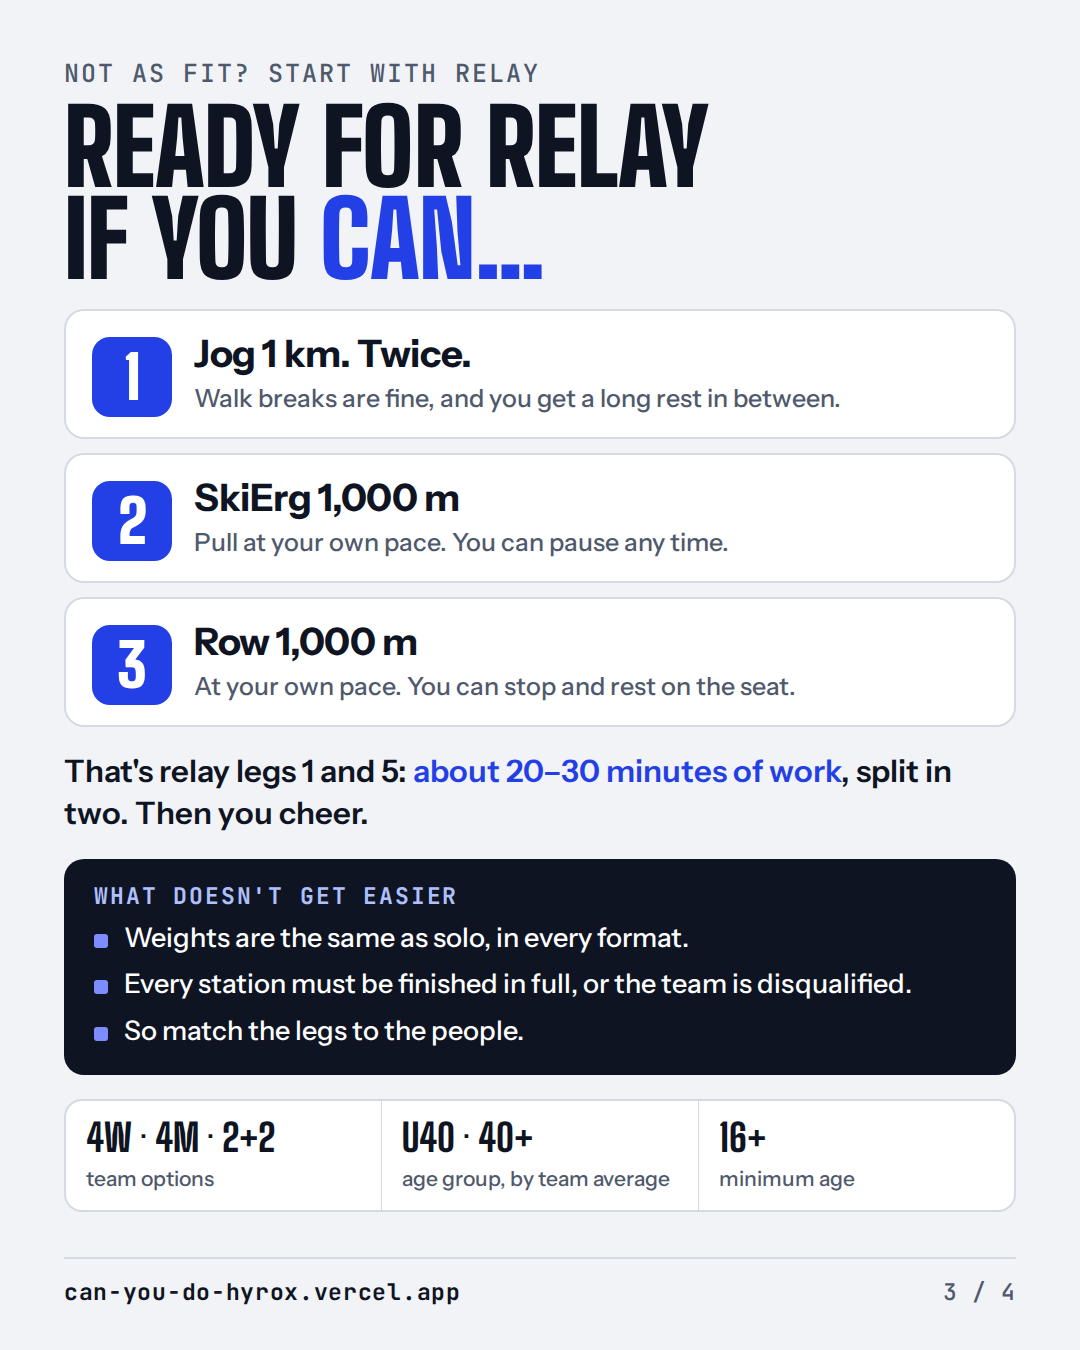
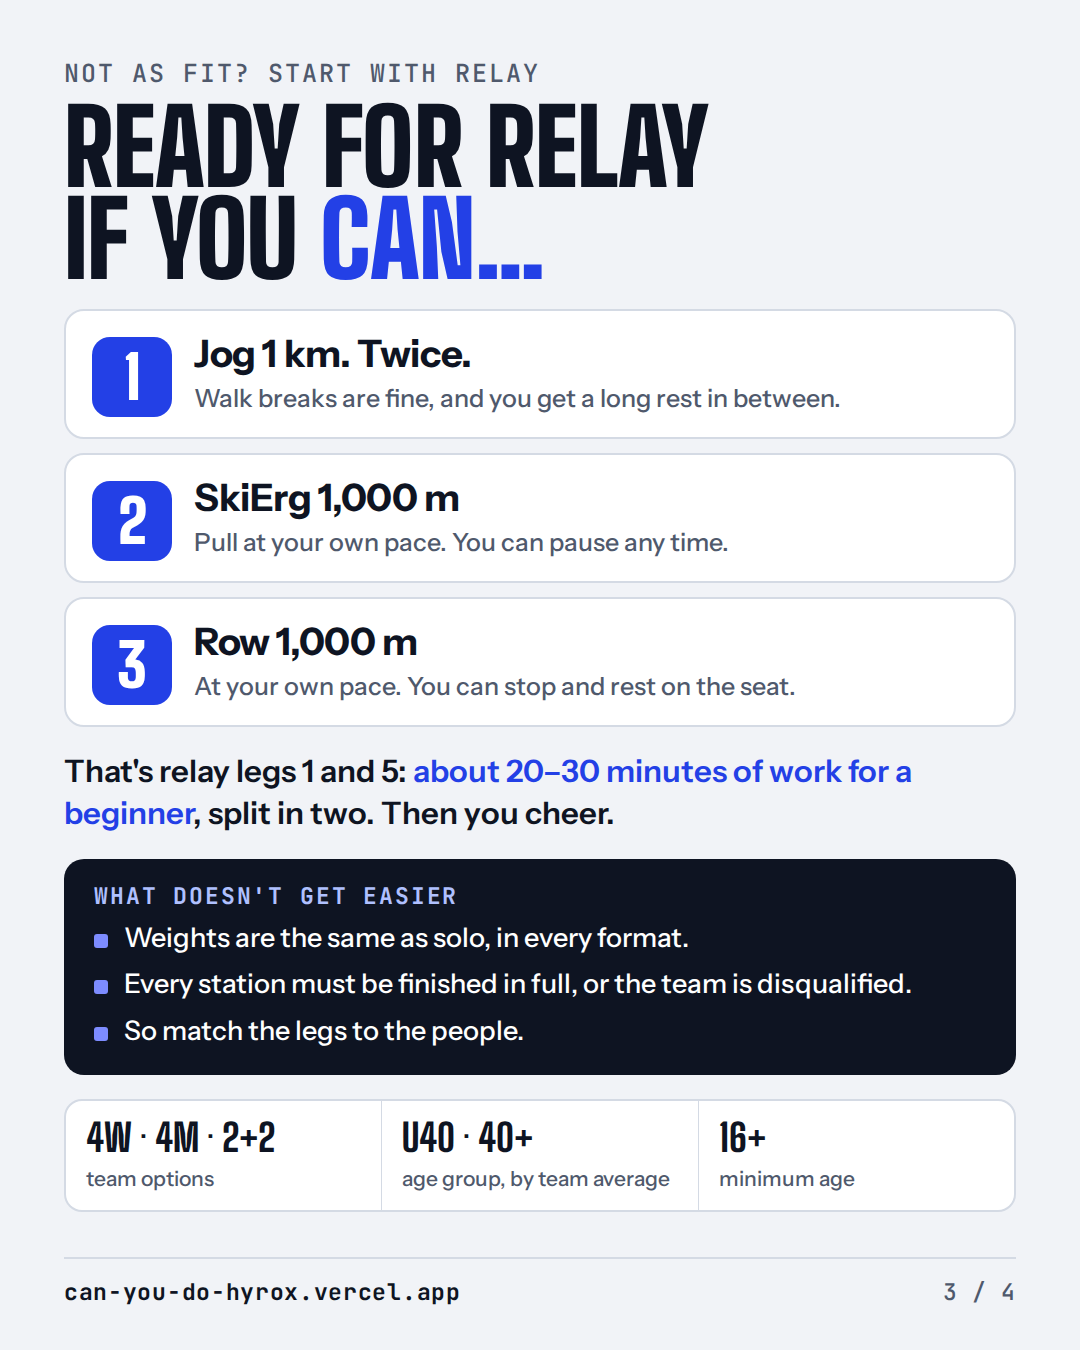
Tighten comparison wording and fix relay tile layout
Use verified relay work times (15-25 min each, 20-30 for a beginner),
rename relay tile classes so the course list's .st rule no longer splits
them into two columns, keep stat values on one line on phones, and give
card 4's table more room.

Claude-Session: https://claude.ai/code/session_018ZDwcHSyeBTy9PunRMkirw

Changed region(s): [[0.0611, 0.5911, 0.5806, 0.6222], [0.7639, 0.56, 0.8861, 0.5911]]

diff --git a/index.html b/index.html
@@ -261,7 +261,8 @@ details.answers summary{cursor:pointer;font-weight:600;width:max-content;max-wid
 .fmt-stats{display:grid;grid-template-columns:repeat(3,minmax(0,1fr));gap:10px;margin:0}
 .fmt-stats div{display:grid;gap:2px;min-width:0}
 .fmt-stats dt{font-size:var(--fs-xs);color:var(--muted)}
-.fmt-stats dd{margin:0;font-weight:700;font-size:1.25rem;line-height:1.15;letter-spacing:-.01em}
+.fmt-stats dd{margin:0;font-weight:700;font-size:1.25rem;line-height:1.15;letter-spacing:-.01em;white-space:nowrap}
+@media (max-width:420px){.fmt-stats dd{font-size:1.0625rem}.fmt-stats dt{font-size:.6875rem}}
 .fmt-legend{display:flex;flex-wrap:wrap;gap:6px 18px;font-size:var(--fs-sm);color:var(--muted);align-items:center}
 .fmt-legend span{display:inline-flex;align-items:center;gap:7px}
 .fmt-legend i{display:inline-block;width:14px;height:14px;border-radius:3px;border:1.5px solid var(--line);background:var(--surface)}
@@ -272,9 +273,9 @@ details.answers summary{cursor:pointer;font-weight:600;width:max-content;max-wid
 .relay-legs{list-style:none;margin:0;padding:0;display:grid;grid-template-columns:repeat(8,minmax(0,1fr));gap:6px}
 .relay-legs li{background:var(--surface);border:1px solid var(--line);border-radius:8px;overflow:hidden;display:grid;text-align:center;min-width:0}
 .relay-legs li::before{content:"";height:6px;background:var(--c)}
-.relay-legs .n{font:800 1.5rem/1 var(--font-display);padding-top:6px}
-.relay-legs .st{font-size:.6875rem;font-weight:600;line-height:1.15;padding:2px 3px 6px;min-height:2.3em}
-.relay-legs .lt{font:700 .8125rem/1 var(--font-mono);padding:5px 0 6px;border-top:1px solid var(--line)}
+.relay-legs .rl-n{font:800 1.5rem/1 var(--font-display);padding-top:6px}
+.relay-legs .rl-st{font-size:.6875rem;font-weight:600;line-height:1.15;padding:2px 3px 6px;min-height:2.3em}
+.relay-legs .rl-lt{font:700 .8125rem/1 var(--font-mono);padding:5px 0 6px;border-top:1px solid var(--line)}
 .relay-people{display:grid;grid-template-columns:repeat(2,minmax(0,1fr));gap:10px}
 .rp{background:var(--surface);border:1px solid var(--line);border-left:6px solid var(--c);border-radius:var(--r-md);padding:12px 14px;display:grid;gap:6px;align-content:start;min-width:0}
 .rp h4{font-family:var(--font-display);font-weight:800;font-size:1.375rem;line-height:1;text-transform:uppercase}
@@ -583,13 +584,13 @@ details.answers summary{cursor:pointer;font-weight:600;width:max-content;max-wid
       <article class="fmt">
         <div class="fmt-top"><h3>Doubles</h3><span class="who">2 people</span></div>
         <div class="mstrip" aria-hidden="true"><i class="r you"></i><i class="s half"></i><i class="r you"></i><i class="s half"></i><i class="r you"></i><i class="s half"></i><i class="r you"></i><i class="s half"></i><i class="r you"></i><i class="s half"></i><i class="r you"></i><i class="s half"></i><i class="r you"></i><i class="s half"></i><i class="r you"></i><i class="s half"></i></div>
-        <dl class="fmt-stats"><div><dt>Running</dt><dd>8 km, together</dd></div><div><dt>Stations</dt><dd>All 8, taking turns</dd></div><div><dt>Typical first race*</dt><dd>1:25–1:50</dd></div></dl>
+        <dl class="fmt-stats"><div><dt>Running, side by side</dt><dd>8 km</dd></div><div><dt>Stations, taking turns</dt><dd>All 8</dd></div><div><dt>Typical first race*</dt><dd>1:25–1:50</dd></div></dl>
         <p>Halves the station work, <b>not the running</b>: you run every kilometre side by side, so it's barely quicker than solo. One of you works a station while the other rests. Mixed pairs use the men's weights.</p>
       </article>
       <article class="fmt pick">
         <div class="fmt-top"><h3>Relay <span class="badge">Easiest way in</span></h3><span class="who">4 people</span></div>
         <div class="mstrip" aria-hidden="true"><i class="r"></i><i class="s"></i><i class="r"></i><i class="s"></i><i class="r"></i><i class="s"></i><i class="r"></i><i class="s"></i><i class="r you"></i><i class="s you"></i><i class="r you"></i><i class="s you"></i><i class="r"></i><i class="s"></i><i class="r"></i><i class="s"></i></div>
-        <dl class="fmt-stats"><div><dt>Running</dt><dd>2 km</dd></div><div><dt>Stations</dt><dd>2 of 8</dd></div><div><dt>Work each</dt><dd>20–30 min*</dd></div></dl>
+        <dl class="fmt-stats"><div><dt>Running</dt><dd>2 km</dd></div><div><dt>Stations, team picks</dt><dd>2 of 8</dd></div><div><dt>Work each</dt><dd>15–25 min*</dd></div></dl>
         <p>Each person runs 2 × 1 km and does 2 stations, and the team decides who does which. Only one of you works at a time.</p>
       </article>
     </div>
@@ -600,14 +601,14 @@ details.answers summary{cursor:pointer;font-weight:600;width:max-content;max-wid
       <h3 class="relay-h">Relay: who does what</h3>
       <p class="small-note">Popular tips from relay guides, not rules: the team decides who does which legs, back to back or split up.</p>
       <ol class="relay-legs" aria-label="Relay legs and who takes them">
-        <li class="pa"><span class="n">1</span><span class="st">SkiErg</span><span class="lt">A</span></li>
-        <li class="pb"><span class="n">2</span><span class="st">Sled push</span><span class="lt">B</span></li>
-        <li class="pb"><span class="n">3</span><span class="st">Sled pull</span><span class="lt">B</span></li>
-        <li class="pc"><span class="n">4</span><span class="st">Burpee jumps</span><span class="lt">C</span></li>
-        <li class="pa"><span class="n">5</span><span class="st">Row</span><span class="lt">A</span></li>
-        <li class="pd"><span class="n">6</span><span class="st">Farmers carry</span><span class="lt">D</span></li>
-        <li class="pd"><span class="n">7</span><span class="st">Lunges</span><span class="lt">D</span></li>
-        <li class="pc"><span class="n">8</span><span class="st">Wall balls</span><span class="lt">C</span></li>
+        <li class="pa"><span class="rl-n">1</span><span class="rl-st">SkiErg</span><span class="rl-lt">A</span></li>
+        <li class="pb"><span class="rl-n">2</span><span class="rl-st">Sled push</span><span class="rl-lt">B</span></li>
+        <li class="pb"><span class="rl-n">3</span><span class="rl-st">Sled pull</span><span class="rl-lt">B</span></li>
+        <li class="pc"><span class="rl-n">4</span><span class="rl-st">Burpee jumps</span><span class="rl-lt">C</span></li>
+        <li class="pa"><span class="rl-n">5</span><span class="rl-st">Row</span><span class="rl-lt">A</span></li>
+        <li class="pd"><span class="rl-n">6</span><span class="rl-st">Farmers carry</span><span class="rl-lt">D</span></li>
+        <li class="pd"><span class="rl-n">7</span><span class="rl-st">Lunges</span><span class="rl-lt">D</span></li>
+        <li class="pc"><span class="rl-n">8</span><span class="rl-st">Wall balls</span><span class="rl-lt">C</span></li>
       </ol>
       <div class="relay-people">
         <div class="rp pa"><h4>A · Least fit</h4><ul><li><span>1</span>SkiErg 1,000 m</li><li><span>5</span>Row 1,000 m</li></ul><p>Both machines: you set the pace and can pause any time, with a long rest in between.</p></div>
